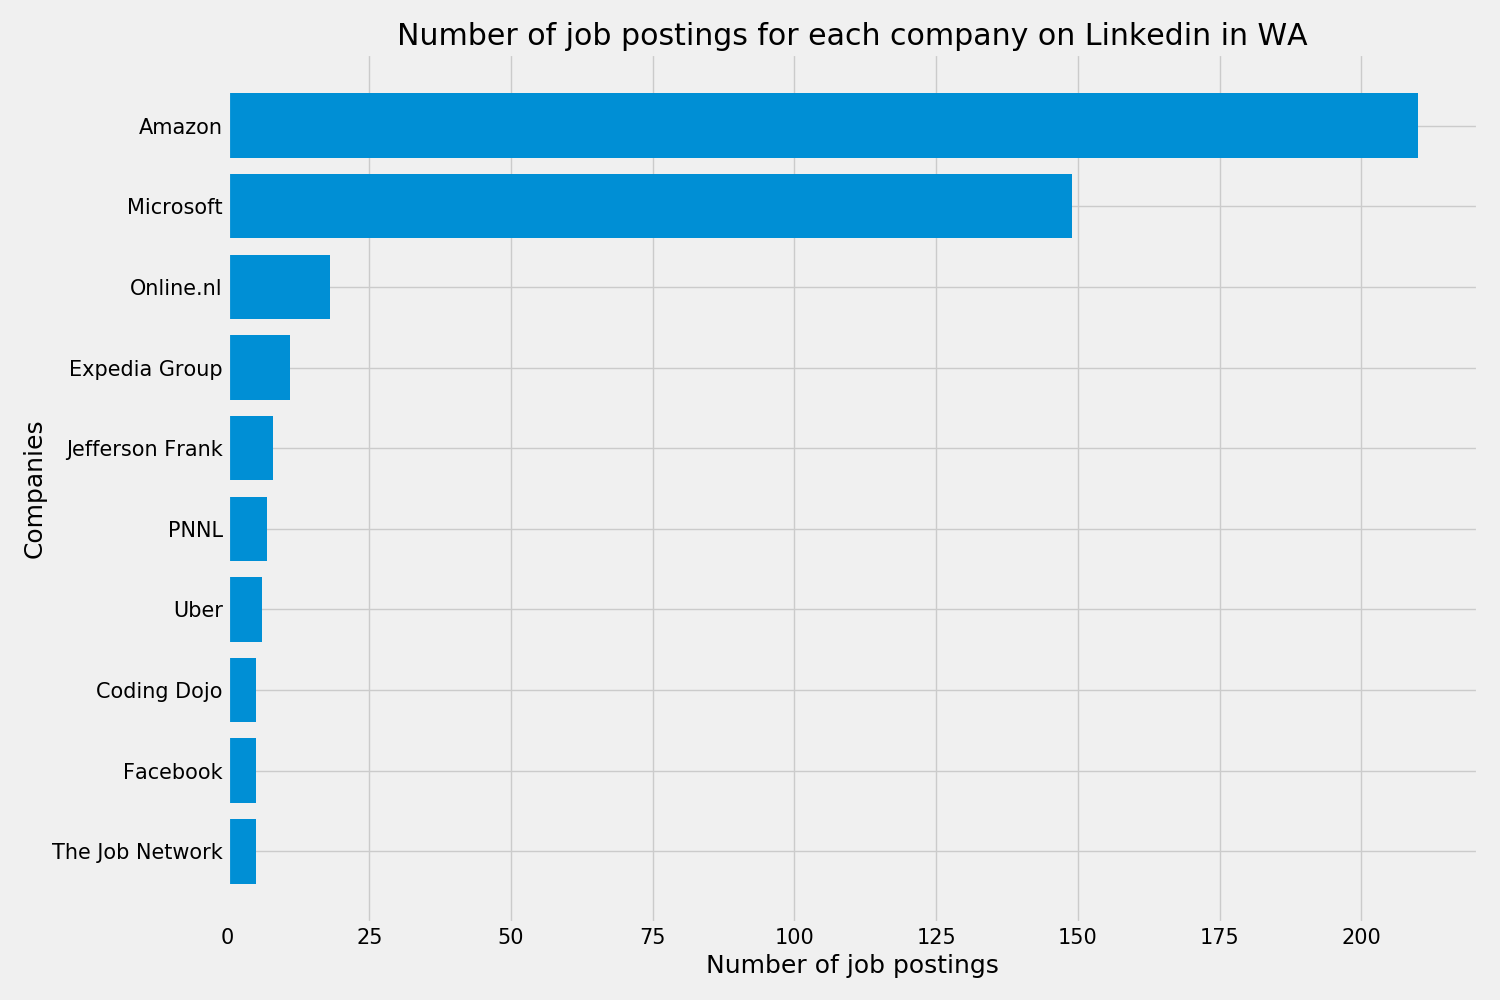
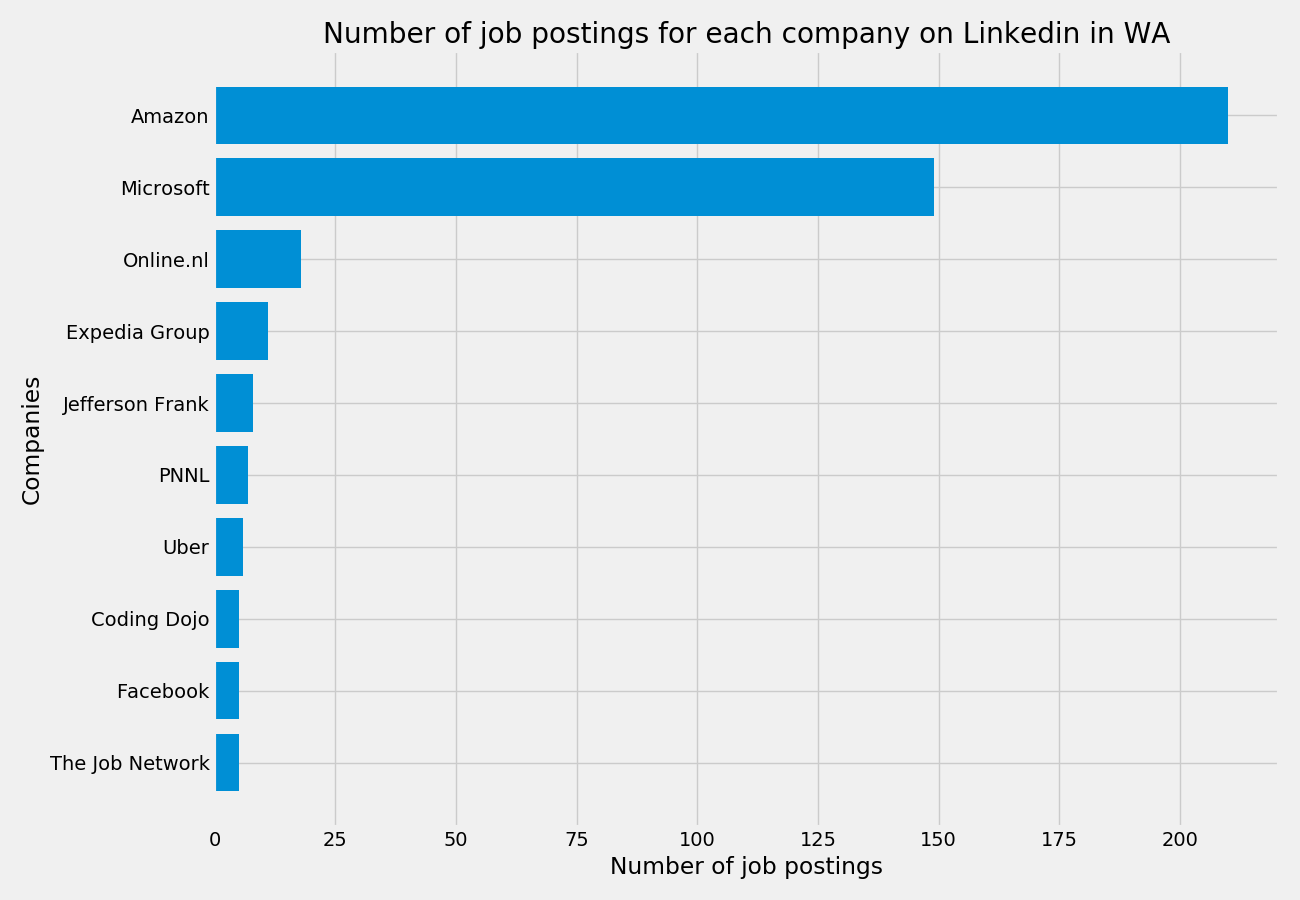
Changing graph sizes

diff --git a/src/graphing_eda.py b/src/graphing_eda.py
@@ -120,9 +120,9 @@ def graph_top10_companies(state_id):
 
     jobs_state = df_all_state['Company'].value_counts().values[:10]
     jobs_state = jobs_state[::-1]
-    plt.rcParams.update({'font.size': 15})
+    # plt.rcParams.update({'font.size': 15})
 
-    fig, ax = plt.subplots(figsize=(15,10))
+    fig, ax = plt.subplots(figsize=(13,9))
     ax.barh(companies_state, jobs_state)
 
     ax.set_xlabel('Number of job postings')
